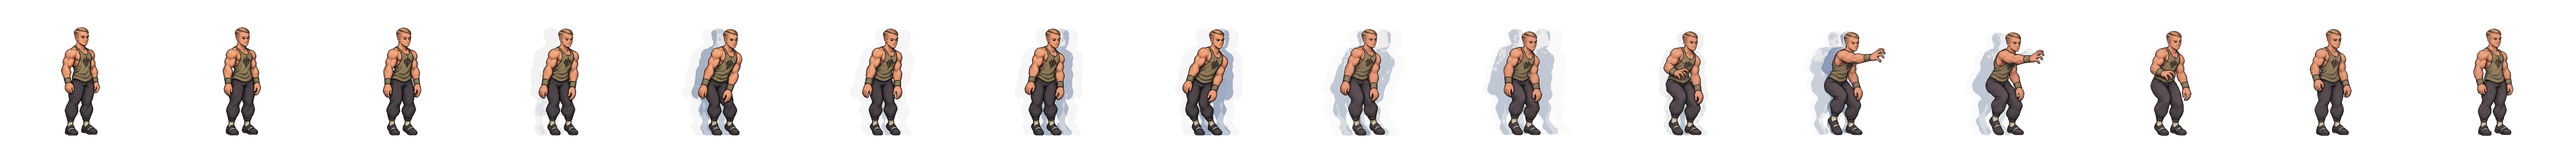
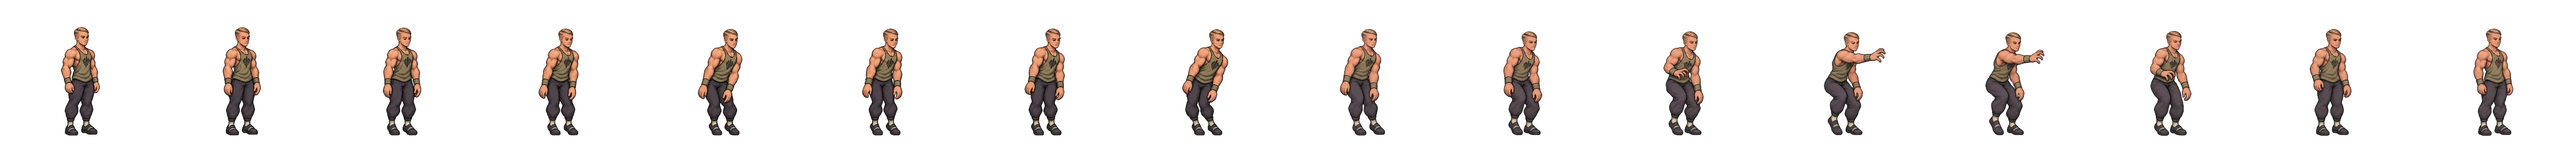
Moti: 지곡 잔상을 게임 안에서 실시간 복제로 (끊김 해결)
게임 시트는 잔상 없는 본체 16컷만, 잔상은 직전 포즈를 통째 복사·파랗게 물들인 층을 계획표 위치로 부드럽게 이동.

Claude-Session: https://claude.ai/code/session_01SJE5tDvBL3DPGzLWdVQkiX

diff --git a/liftlife/dice.html b/liftlife/dice.html
@@ -166,6 +166,9 @@
   @keyframes breathe2{50%{translate:0 -1.2%}}
   .hero .skl{transition:opacity var(--xf,160ms) ease-in-out}
   .hero .skl.off{opacity:0}
+  /* 지곡 잔상: 직전 포즈를 통째로 복사해 파랗게 물들인 층 (본체 뒤) */
+  .hero .gh{position:absolute;left:-20%;top:-20%;width:140%;height:140%;background-repeat:no-repeat;opacity:0;pointer-events:none;
+    transition:transform .18s cubic-bezier(.2,.8,.3,1),opacity .18s;filter:brightness(1.35) sepia(1) saturate(4) hue-rotate(170deg)}
   .wflash{position:absolute;inset:0;z-index:11;background:#fff;opacity:0;pointer-events:none;transition:opacity .25s}
   .wflash.on{opacity:.8;transition:none}
   .skills{grid-column:1/-1;display:grid;grid-template-columns:repeat(4,1fr);gap:5px}
@@ -553,7 +556,11 @@ const SKILLS=[
    say:{1:'감사합니다',2:'…',4:'영(零)의 손'},hit:5,word:'백식관음!'},
   {k:'killua',ic:'⚡',n:'지곡',img:'sk_killua.webp',nf:16,
    seq:[[0,300],[1,160],[2,160],[3,150],[4,140],[5,140],[6,140],[7,140],[8,140],[9,150],[10,170],[11,420],[12,380],[13,220],[14,200],[15,300]],
-   say:{1:'…',4:'지곡(肢曲)',11:'잡았다'},hit:11,word:'지곡!'},
+   say:{1:'…',4:'지곡(肢曲)',11:'잡았다'},hit:11,word:'지곡!',
+   gpx:.1467,   // 원본 1px → 칸 너비 %
+   ghost:{4:[[-40,.25]],5:[[-35,.4],[-75,.2]],6:[[-45,.2],[45,.2]],7:[[35,.35],[75,.2],[-45,.2]],8:[[35,.4],[75,.2],[-45,.2]],
+          9:[[-40,.3],[40,.3],[-85,.15],[85,.15]],10:[[-55,.3],[55,.3],[-110,.15],[110,.15]],11:[[-25,.25],[25,.25]],
+          12:[[-55,.4],[-110,.25],[-165,.15]],13:[[-50,.3],[-100,.15]]}},
 ];
 SKILLS.forEach(sk=>{const i=new Image();i.src=sk.img;});
 $('skills').insertAdjacentHTML('beforeend',SKILLS.map((sk,i)=>`<button type="button" data-i="${i}"><i>${sk.ic}</i>${sk.n}</button>`).join(''));
@@ -569,7 +576,10 @@ async function useSkill(sk){ac();if(!started)start();if(busy)return;busy=true;$(
   const L=[$('skl'),$('skl2')],wrap=$('sklw');let top=0;
   const nf=sk.nf||8;L.forEach(el=>{el.style.backgroundImage=`url(${sk.img})`;el.style.backgroundSize=`${nf*100}% 100%`;el.style.backgroundPosition='0 0';});L[1].classList.add('off');L[0].classList.remove('off');
   hero.classList.add('skill');
+  const G=[];if(sk.ghost){for(let i=0;i<4;i++){const g=document.createElement('div');g.className='gh';g.style.backgroundImage=`url(${sk.img})`;g.style.backgroundSize=`${nf*100}% 100%`;wrap.insertBefore(g,wrap.firstChild);G.push(g);}}
   for(const [f,ms] of sk.seq){
+    if(G.length){const plan=sk.ghost[f+1]||[],pf=Math.max(0,f-1);
+      G.forEach((g,i)=>{const c=plan[i];if(c){g.style.backgroundPosition=(pf/(nf-1)*100)+'% 0';g.style.transform=`translateX(${c[0]*sk.gpx}%)`;g.style.opacity=Math.min(.85,c[1]*2.1);}else g.style.opacity=0;});}
     // 다음 컷을 아래 장에 깔고 서서히 드러냄 (컷 길이에 맞춰 페이드 시간 조절)
     const nxt=L[1-top],xf=Math.min(220,Math.max(110,ms*.4));
     L.forEach(el=>el.style.setProperty('--xf',xf+'ms'));
@@ -579,7 +589,7 @@ async function useSkill(sk){ac();if(!started)start();if(busy)return;busy=true;$(
     if(f===sk.hit){banner(sk.word,1200);shake();const w=$('wflash');w.classList.add('on');setTimeout(()=>w.classList.remove('on'),60);
       wrap.style.transform='scale(1.06)';setTimeout(()=>wrap.style.transform='',180);}
     await sleep(ms);}
-  await sleep(120);
+  await sleep(120);G.forEach(g=>g.remove());
   hero.classList.remove('skill');setF(F.stand);
   msg('SKILL',`${sk.ic} ${sk.n}`,{aura:'최초는 주먹, 잔! 켄! 바위!\n오라를 모은 주먹이 바벨을 향한다.',card:'카드 한 장에 분홍 오라.\n늘어나고 줄어드는 근육의 성질.',guardian:'감사의 합장.\n금빛 거인이 Moti 뒤에 섰다.',killua:'리듬 있게 걷는 발걸음.\n잔상이 여러 개로 갈라진다.'}[sk.k]);
   busy=false;$('dice').classList.add('ready');}
